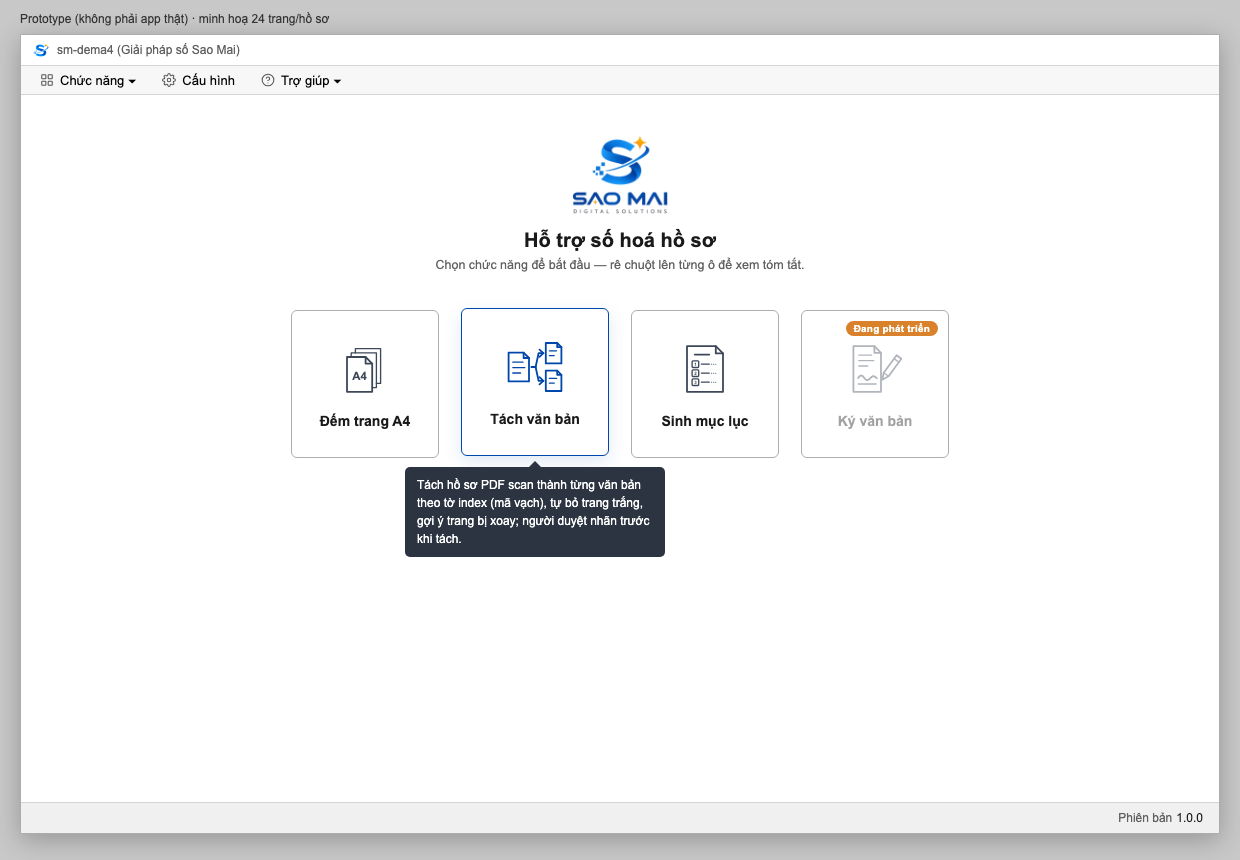
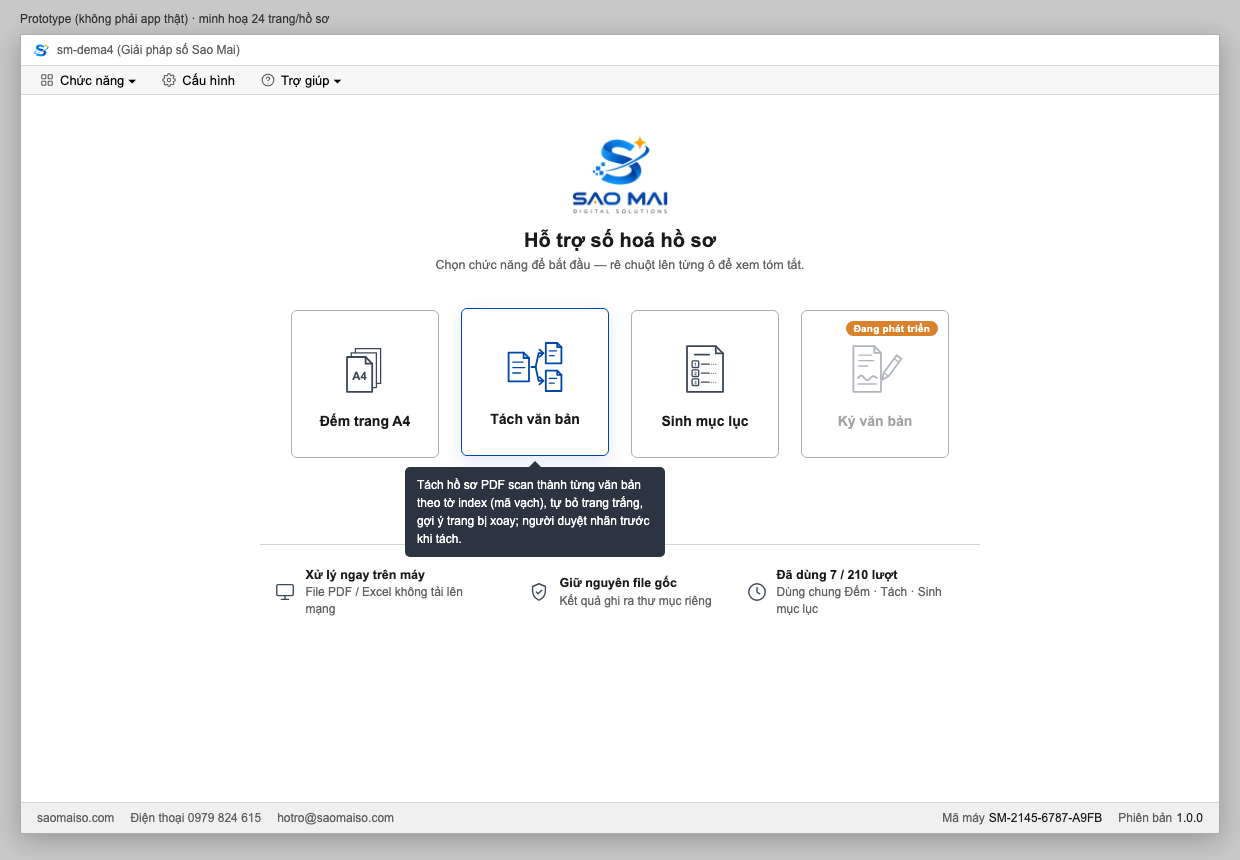
docs(prototype): trang chủ thêm điểm nổi bật, liên hệ, mã máy ở thanh đáy

diff --git a/plans/261027-1736-tach-van-ban-tu-dong/prototype-tach-van-ban.html b/plans/261027-1736-tach-van-ban-tu-dong/prototype-tach-van-ban.html
@@ -120,6 +120,13 @@
   /* Thanh đáy trang chủ: phiên bản app căn phải */
   .tc-day { position:absolute; left:0; right:0; bottom:0; height:30px; display:flex; align-items:center; justify-content:flex-end; padding:0 28px; background:var(--nen); border-top:1px solid var(--vien-nhat); font-size:12px; color:var(--chu-phu); }
   .tc-day b { color:var(--chu); font-weight:normal; margin-left:4px; }
+  .tc-day { justify-content:space-between; gap:18px; } .tc-day > span { display:flex; gap:16px; align-items:center; }
+  .tc-day a { color:var(--chu-phu); text-decoration:none; } .tc-day a:hover { color:var(--cobalt); text-decoration:underline; }
+  /* Dải điểm nổi bật dưới các ô chức năng */
+  .tc-diem { display:flex; gap:34px; justify-content:center; margin-top:78px; padding-top:22px; border-top:1px solid var(--vien-nhat); width:720px; }
+  .tc-diem div { display:flex; align-items:center; gap:9px; font-size:12px; color:var(--chu-phu); line-height:1.4; max-width:220px; }
+  .tc-diem svg { width:22px; height:22px; flex-shrink:0; fill:none; stroke:#3C4858; stroke-width:1.5; stroke-linecap:round; stroke-linejoin:round; }
+  .tc-diem b { color:var(--chu); display:block; font-size:12.5px; }
   .tc-dau small { display:block; color:var(--chu-phu); font-size:12px; letter-spacing:.3px; margin-bottom:6px; }
   .tc-dau h1 { font-size:20px; margin:0 0 6px; }
   .tc-dau p { margin:0; color:var(--chu-phu); font-size:12.5px; }
@@ -681,7 +688,15 @@
       <button class="tc-the" data-den="mucluc" aria-describedby="tom-mucluc"><svg class="" viewBox="0 0 100 100" aria-hidden="true"><path d="M20 12H68L80 24V88H20Z" stroke-width="3"/><path d="M68 12V24H80" stroke-width="3"/><path d="M33 26H57" stroke-width="3"/><rect x="28.5" y="36.5" width="11" height="11" rx="1.5" stroke-width="2.2"/><text x="34" y="44.8" text-anchor="middle" font-size="7.5" font-weight="bold" fill="#3C4858" stroke="none">1</text><path d="M44 42H57" stroke-width="2.2"/><circle cx="61.0" cy="42" r="0.9" fill="#3C4858" stroke="none"/><circle cx="64.5" cy="42" r="0.9" fill="#3C4858" stroke="none"/><circle cx="68.0" cy="42" r="0.9" fill="#3C4858" stroke="none"/><rect x="28.5" y="51.5" width="11" height="11" rx="1.5" stroke-width="2.2"/><text x="34" y="59.8" text-anchor="middle" font-size="7.5" font-weight="bold" fill="#3C4858" stroke="none">2</text><path d="M44 57H57" stroke-width="2.2"/><circle cx="61.0" cy="57" r="0.9" fill="#3C4858" stroke="none"/><circle cx="64.5" cy="57" r="0.9" fill="#3C4858" stroke="none"/><circle cx="68.0" cy="57" r="0.9" fill="#3C4858" stroke="none"/><rect x="28.5" y="66.5" width="11" height="11" rx="1.5" stroke-width="2.2"/><text x="34" y="74.8" text-anchor="middle" font-size="7.5" font-weight="bold" fill="#3C4858" stroke="none">3</text><path d="M44 72H57" stroke-width="2.2"/><circle cx="61.0" cy="72" r="0.9" fill="#3C4858" stroke="none"/><circle cx="64.5" cy="72" r="0.9" fill="#3C4858" stroke="none"/><circle cx="68.0" cy="72" r="0.9" fill="#3C4858" stroke="none"/></svg><b>Sinh mục lục</b><span class="tom" id="tom-mucluc" role="tooltip">Sinh mục lục văn bản cho từng hồ sơ từ file biên mục Excel/CSV theo mẫu DOCX của đơn vị; xem trước từng hồ sơ, xuất DOCX hàng loạt.</span></button>
       <button class="tc-the pt" data-den="ky" aria-describedby="tom-ky"><svg class="" viewBox="0 0 100 100" aria-hidden="true"><path d="M14 12H49L60 23V88H14Z" stroke-width="3"/><path d="M49 12V23H60" stroke-width="3"/><path d="M23 27H44" stroke-width="2.2"/><path d="M23 36H48" stroke-width="2.2"/><path d="M23 45H38" stroke-width="2.2"/><path d="M22.0 65.0 L23.1 63.5 L24.2 62.3 L25.3 61.3 L26.4 60.9 L27.5 60.9 L28.6 61.3 L29.8 62.2 L30.9 63.3 L32.0 64.7 L33.1 66.0 L34.2 67.1 L35.3 68.0 L36.4 68.5 L37.5 68.6 L38.6 68.3 L39.7 67.6 L40.8 66.7 L41.9 65.6 L43.0 64.5 L44.1 63.5 L45.2 62.7 L46.4 62.1 L47.5 62.0 L48.6 62.2 L49.7 62.7 L50.8 63.4 L51.9 64.3 L53.0 65.2" stroke-width="3"/><path d="M22 75H52" stroke-width="2.2"/><path d="M86.0 27.0 L64.5 56.2 L62.0 68.0 L72.6 62.1 L94.0 33.0Z" stroke-width="3"/><path d="M64.5 56.2L72.6 62.1" stroke-width="2.2"/><path d="M81.8 32.7L89.9 38.6" stroke-width="2.2"/></svg><b>Ký văn bản</b><span class="nhan-pt">Đang phát triển</span><span class="tom" id="tom-ky" role="tooltip">Ký số hàng loạt văn bản PDF đã tách bằng chứng thư số của đơn vị, chèn hình chữ ký. Chức năng đang phát triển.</span></button>
     </div>
-    <div class="tc-day">Phiên bản<b>1.0.0</b></div>
+    <div class="tc-diem">
+      <div><svg viewBox="0 0 24 24" aria-hidden="true"><rect x="3" y="4" width="18" height="12" rx="1.5"/><path d="M8 20h8M12 16v4"/></svg><span><b>Xử lý ngay trên máy</b>File PDF / Excel không tải lên mạng</span></div>
+      <div><svg viewBox="0 0 24 24" aria-hidden="true"><path d="M12 3l7 3v5c0 4.5-3 8-7 10-4-2-7-5.5-7-10V6z"/><path d="M9 12l2 2 4-4"/></svg><span><b>Giữ nguyên file gốc</b>Kết quả ghi ra thư mục riêng</span></div>
+      <div><svg viewBox="0 0 24 24" aria-hidden="true"><circle cx="12" cy="12" r="9"/><path d="M12 7v5l3 2"/></svg><span><b>Đã dùng 7 / 210 lượt</b>Dùng chung Đếm · Tách · Sinh mục lục</span></div>
+    </div>
+    <div class="tc-day">
+      <span><a href="https://saomaiso.com" target="_blank" rel="noopener">saomaiso.com</a><span>Điện thoại 0979 824 615</span><a href="mailto:hotro@saomaiso.com">hotro@saomaiso.com</a></span>
+      <span><span>Mã máy<b>SM-2145-6787-A9FB</b></span><span>Phiên bản<b>1.0.0</b></span></span>
+    </div>
   </div>
 
   <!-- Màn Tách văn bản -->
